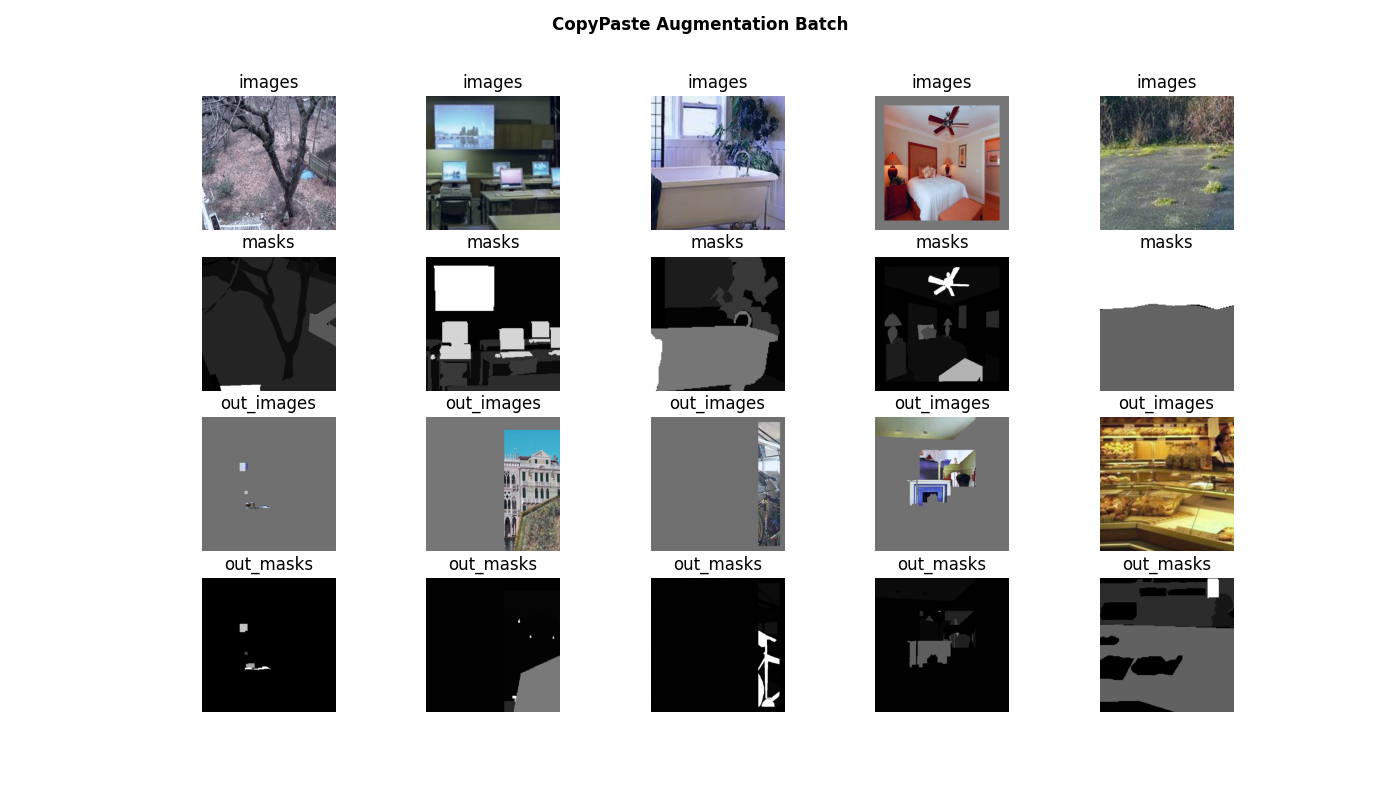
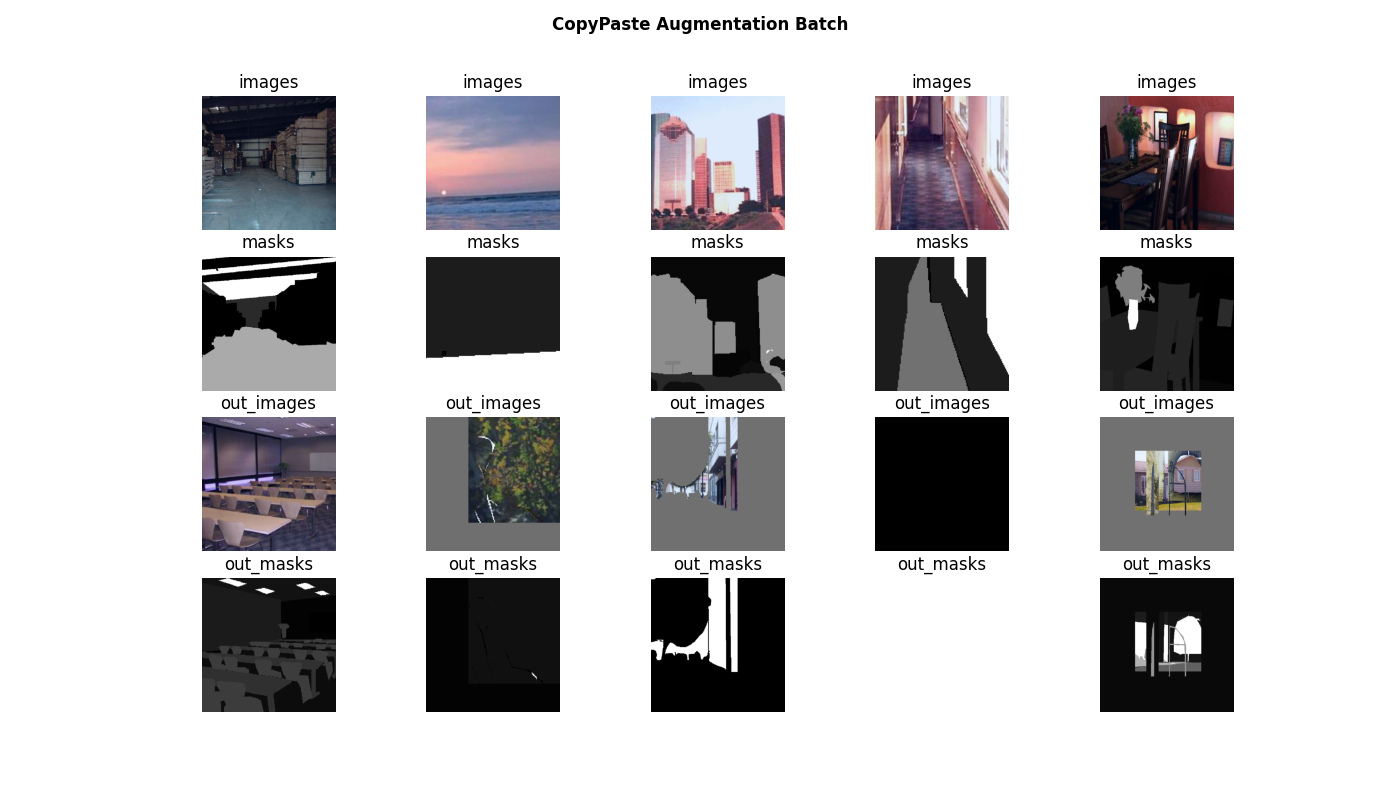
ready for data collection on r1z1

diff --git a/composer/algorithms/copypaste/copypaste.py b/composer/algorithms/copypaste/copypaste.py
@@ -137,7 +137,7 @@ def copypaste_batch(images, masks, configs):
 
         trg_image = images[j]
         trg_mask = masks[j]
-        print("- num_copied_instances = ", num_copied_instances, ", instance_ids = ", src_instance_ids)
+        # print("- num_copied_instances = ", num_copied_instances, ", instance_ids = ", src_instance_ids)
         # imshow_1d_tensor(masks[i])
         # imshow_tensor(images[i])
         # imshow_1d_tensor(trg_mask)
@@ -146,7 +146,7 @@ def copypaste_batch(images, masks, configs):
         # print("target: ", torch.unique(trg_mask))
         if random.uniform(0, 1) < configs["p"]:
             for src_instance_id in src_instance_ids:
-                print ("i = ", i, ", j = ", j, " instance_id = ", src_instance_id)
+                # print ("i = ", i, ", j = ", j, " instance_id = ", src_instance_id)
 
                 trg_image, trg_mask = _copypaste_instance(images[i], masks[i], trg_image, trg_mask, src_instance_id, configs)
         else:
@@ -177,30 +177,36 @@ def visualize_copypaste_batch(images, masks, out_images, out_masks, num, fig_nam
     fig, axarr = plt.subplots(4, num, figsize=(14, 8), dpi=dpi)
 
     for col in range(min(num, len(images))):
-        image = images[col]
+        arr = images[col].cpu().numpy()
+        image = (arr - np.min(arr)) / (np.max(arr) - np.min(arr))
         ax = axarr[0, col]
-        ax.imshow(np.transpose(image.cpu().numpy(), (1, 2, 0)))
+        ax.imshow(np.transpose(image, (1, 2, 0)))
         ax.set_title("images")
         clean_axes(ax)
 
     for col in range(min(num, len(masks))):
-        image = masks[col]
+        arr = torch.unsqueeze(masks[col], dim=0).cpu().numpy()
+        image = (arr - np.min(arr)) / (np.max(arr) - np.min(arr))
         ax = axarr[1, col]
-        ax.imshow(np.transpose(torch.unsqueeze(image, dim=0).cpu().numpy(), (1, 2, 0)), cmap="gray")
+        ax.imshow(np.transpose(image, (1, 2, 0)), cmap="gray")
         ax.set_title("masks")
         clean_axes(ax)
 
     for col in range(min(num, len(out_images))):
-        image = out_images[col]
+        arr = out_images[col].cpu().numpy()
+        # print("out_images: ", (np.max(arr) - np.min(arr)))
+        image = (arr - np.min(arr)) / (np.max(arr) - np.min(arr))
         ax = axarr[2, col]
-        ax.imshow(np.transpose(image.cpu().numpy(), (1, 2, 0)))
+        ax.imshow(np.transpose(image, (1, 2, 0)))
         ax.set_title("out_images")
         clean_axes(ax)
 
     for col in range(min(num, len(out_masks))):
-        image = out_masks[col]
+        arr = torch.unsqueeze(out_masks[col], dim=0).cpu().numpy()
+        # print("out_masks: ", (np.max(arr) - np.min(arr)))
+        image = (arr - np.min(arr)) / (np.max(arr) - np.min(arr))
         ax = axarr[3, col]
-        ax.imshow(np.transpose(torch.unsqueeze(image, dim=0).cpu().numpy(), (1, 2, 0)), cmap="gray")
+        ax.imshow(np.transpose(image, (1, 2, 0)), cmap="gray")
         ax.set_title("out_masks")
         clean_axes(ax)
 
@@ -265,7 +271,7 @@ class CopyPaste(Algorithm):
     Randomly pastes objects onto an image.
 
     Args:
-        p (float, optional): p. Default: ``1.0``
+        p (float, optional): p. Default: ``0.75``
         convert_to_binary_mask (bool, optional): convert_to_binary_mask. Default: ``True``.
         max_copied_instances (int | None, optional): max_copied_instances. Default: ``None``.
         area_threshold (int, optional): area_threshold. Default: ``100``.
@@ -334,10 +340,10 @@ class CopyPaste(Algorithm):
         return event == Event.AFTER_DATALOADER
 
     def apply(self, event: Event, state: State, logger: Logger) -> None:
-        print()
-        print("------------------------------------")
-        print("apply is called")
-        print("------------------------------------")
+        # print()
+        # print("------------------------------------")
+        # print("apply is called")
+        # print("------------------------------------")
 
         # input_dict = {
         #     "images": [],
@@ -347,12 +353,25 @@ class CopyPaste(Algorithm):
         images = state.batch_get_item(key=self.input_key)
         masks = state.batch_get_item(key=self.target_key)
 
-        # test_image = input_dict["images"][2]
-        # test_mask = input_dict["aggregated_masks"][2]
 
-        # print(torch.min(test_image), " - ", torch.max(test_image))
-        # print(torch.min(test_mask), " - ", torch.max(test_mask))
+        for image in images:
+            arr = image.cpu().numpy()
+            dr = (np.max(arr) - np.min(arr))
+            if dr == 0:
+                print("FOUND!")
+                print("image DR: ", dr)
+                print("^^")
+
+
+
         
+        # print("BEFORE:")
+        # img = images[0]
+        # msk = masks[0]
+        # print(torch.min(img), " - ", torch.max(img))
+        # print(torch.min(msk), " - ", torch.max(msk))
+        
+
         # path = os.path.join(".", "debug_out")
         # if not os.path.isdir(path):
         #     os.makedirs(path)
@@ -364,7 +383,7 @@ class CopyPaste(Algorithm):
         # input_dict = _parse_segmentation_batch(input_dict)
         out_images, out_masks = copypaste_batch(images, masks, self.configs)
         
-        visualize_copypaste_batch(images, masks, out_images, out_masks, num=5, fig_name="copypaste_test"+str(batch_num))
+        # visualize_copypaste_batch(images, masks, out_images, out_masks, num=5, fig_name="copypaste_test"+str(batch_num))
         # augmented_dict = copypaste_batch(input_dict, self.configs)
 
 
@@ -372,12 +391,21 @@ class CopyPaste(Algorithm):
         # state.batch_set_item(key=self.input_key, value=augmented_dict["images"])
         # state.batch_set_item(key=self.target_key, value=augmented_dict["masks"])
 
+        
+        # print("AFTER:")
+        # img = out_images[0]
+        # msk = out_masks[0]
+        # print(torch.min(img), " - ", torch.max(img))
+        # print(torch.min(msk), " - ", torch.max(msk))
+        
 
+        # ## bypassing CopyPaste to make it run on r1z2
+        # state.batch_set_item(key=self.input_key, value=state.batch_get_item(key=self.input_key))
+        # state.batch_set_item(key=self.target_key, value=state.batch_get_item(key=self.target_key))
 
+        state.batch_set_item(key=self.input_key, value=out_images)
+        state.batch_set_item(key=self.target_key, value=out_masks)
 
-        ## bypassing CopyPaste to make it run on r1z2
-        state.batch_set_item(key=self.input_key, value=state.batch_get_item(key=self.input_key))
-        state.batch_set_item(key=self.target_key, value=state.batch_get_item(key=self.target_key))
 
 
 
@@ -389,7 +417,7 @@ class CopyPaste_backup(Algorithm):
 
     def __init__(
         self,
-        p=1.0,
+        p=0.75,
         convert_to_binary_mask=True,
         max_copied_instances=None,
         area_threshold=100,
@@ -441,6 +469,7 @@ def _parse_mask_by_id(mask, idx, background_color=-1):
 
 
 def _copypaste_instance(src_image, src_mask, trg_image, trg_mask, src_instance_id, configs):
+    zero_tensor = torch.zeros(1, dtype=src_image.dtype, device=src_image.device)
     # TODO: move to configs
     bg_color = configs["bg_color"]
     # src_instance_mask = src_mask[src_instance_id]
@@ -449,8 +478,7 @@ def _copypaste_instance(src_image, src_mask, trg_image, trg_mask, src_instance_i
     #     src_instance_mask = torch.where(src_instance_mask==0, 0, 1)
 
     # src_instance = torch.mul(src_image, src_instance_mask)
-
-    src_instance = torch.where(src_instance_mask==bg_color, 0, src_image)
+    src_instance = torch.where(src_instance_mask==bg_color, zero_tensor, src_image)
 
     # imshow_tensor(src_instance)
     # imshow_1d_tensor(src_instance_mask)
@@ -463,7 +491,7 @@ def _copypaste_instance(src_image, src_mask, trg_image, trg_mask, src_instance_i
     # imshow_tensor(src_instance)
     # imshow_1d_tensor(src_instance_mask)
 
-    trg_image = torch.where(src_instance_mask==bg_color, trg_image, 0)
+    trg_image = torch.where(src_instance_mask==bg_color, trg_image, zero_tensor)
     trg_image += src_instance
     trg_mask = torch.where(src_instance_mask==bg_color, trg_mask, src_instance_mask)
 
